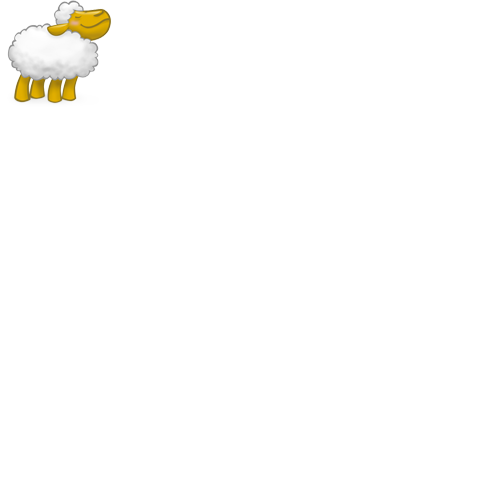
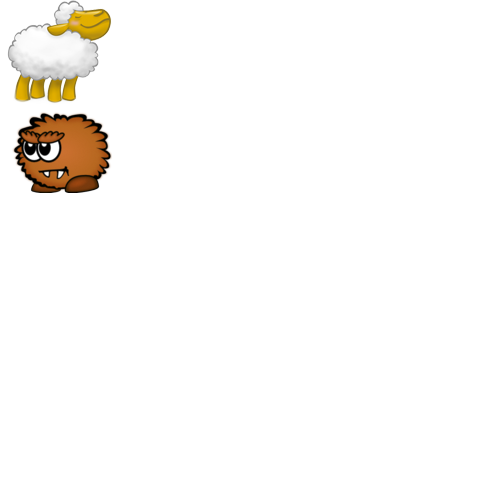
cycle

Changed region(s): [[0.03, 0.18, 0.24, 0.39], [0.03, 0.18, 0.06, 0.21]]

diff --git a/game.js b/game.js
@@ -1,10 +1,13 @@
 window.onload = init;
 
-var  map;
+var map;
 var ctxMap;
 
 var player;
 var ctxPlayer;
+
+var enemy;
+var ctxEnemy;
 
 var drawButton;
 var clearButton;
@@ -18,6 +21,41 @@ background.src = "img/bg.jpg";
 var tiles = new Image();
 tiles.src = "img/tiles.png";
 
+var requestAnimFrame = window.requestAnimFrame || window.webkitRequestAnimationFrame || window.mozRequestAnimationFrame || window.oRequestAnimationFrame || window.msRequestAnimationFrame;
+
+var isPlaying;
+
+function Player() {
+    this.srcX = 0;
+    this.srcY = 0;
+    this.drawX = 0;
+    this.drawY = 0;
+    this.weight = 150;
+    this.height = 110;
+    
+    this.speed = 5;
+}
+
+Player.prototype.draw = function () {
+    ctxMap.drawImage(tiles,this.srcX,this.srcY,this.weight,this.height,this.drawX,this.drawY,this.weight,this.height);
+};
+
+function Enemy() {
+
+    this.srcX = 0;
+    this.srcY = 110;
+    this.drawX = 500;
+    this.drawY = 30;
+    this.width = 150;
+    this.height = 110;
+
+    this.speed = 8;
+}
+
+Enemy.prototype.draw = function(){
+    ctxMap.drawImage(tiles, this.srcX,this.srcY,this.width, this.height, this.drawX,this.drawY,this.width, this.height);
+};
+
 
 function init() {
     map = document.getElementById("map");
@@ -29,15 +67,52 @@ function init() {
     ctxPlayer = player.getContext("2d");
     player.width = gameWidth;
     player.height = gameHeight;
+    
+    enemy = document.getElementById("enemy");
+    ctxEnemy = enemy.getContext("2d");
+    enemy.height = gameHeight;
+    enemy.width = gameWidth;
 
     drawButton = document.getElementById("drawButton");
     clearButton = document.getElementById("clearButton");
     drawButton.addEventListener("click", drawRect, false);
     clearButton.addEventListener("click", clearRect, false);
     drawBg();
-    drawPlayer();
+    player = new Player();
+    enemy = new Enemy();
+    startLoop();
 
 }
+
+function draw () {
+    player.draw();
+    enemy.draw();
+}
+
+function update() {
+
+}
+
+function loop() {
+
+    if(isPlaying){
+        draw();
+        update();
+        requestAnimFrame(loop);
+    }
+
+}
+
+function startLoop() {
+    isPlaying = true;
+    loop();
+}
+
+function stopLoop() {
+    isPlaying = false;
+}
+
+
 
 function drawRect() {
     ctxMap.fillStyle = "#3d3d3d";
@@ -52,7 +127,4 @@ function drawBg() {
     ctxMap.drawImage(background,0,0,800,500,0,0,800,500);
 }
 
-function drawPlayer() {
-    ctxMap.drawImage(tiles,0,0,150,130,0,0,150,130);
-}
 

diff --git a/index.html b/index.html
@@ -10,8 +10,10 @@
     <div id="gameName">FirstGame</div>
     <canvas id="map"></canvas>
     <canvas id="player"></canvas>
+    <canvas id="enemy"></canvas>
     <input id = "drawButton" type="button" value="Draw">
     <input id = "clearButton" type="button" value="Clear">
+
 
 </body>
 </html>
